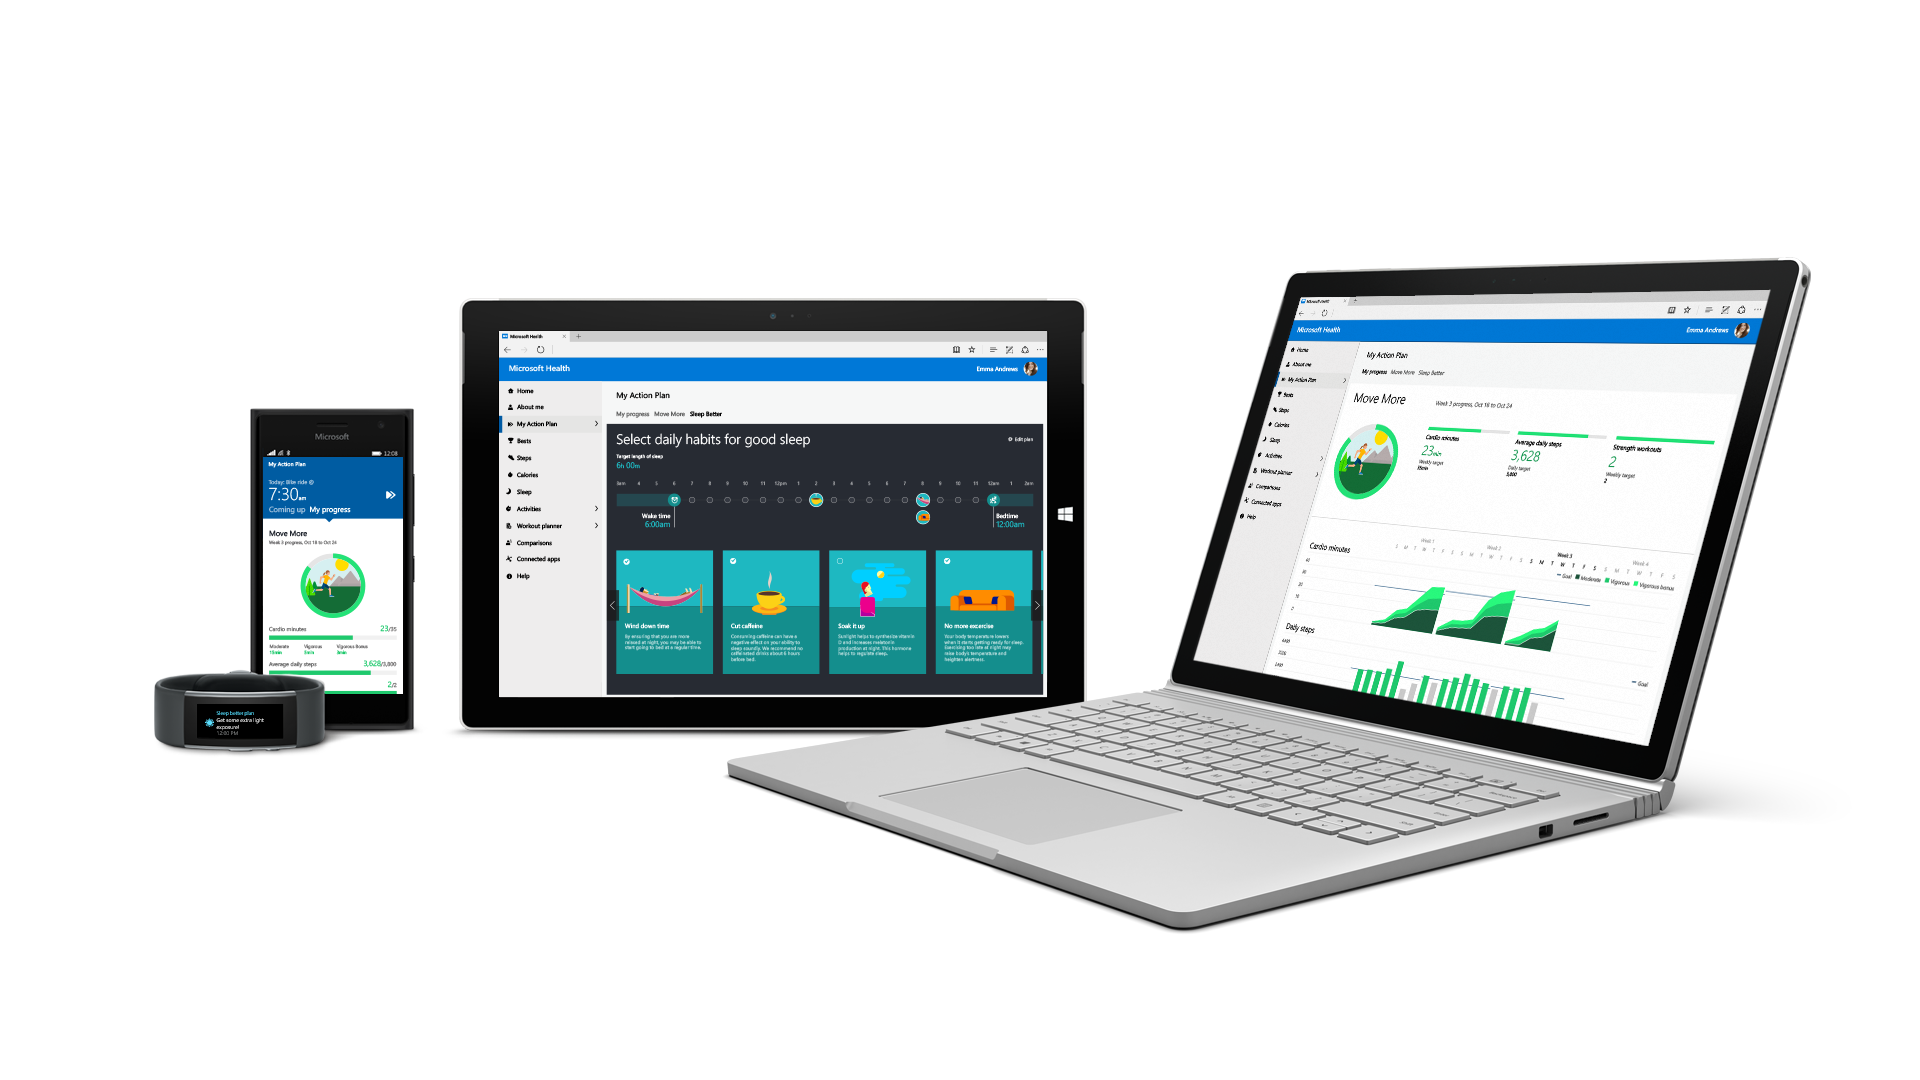
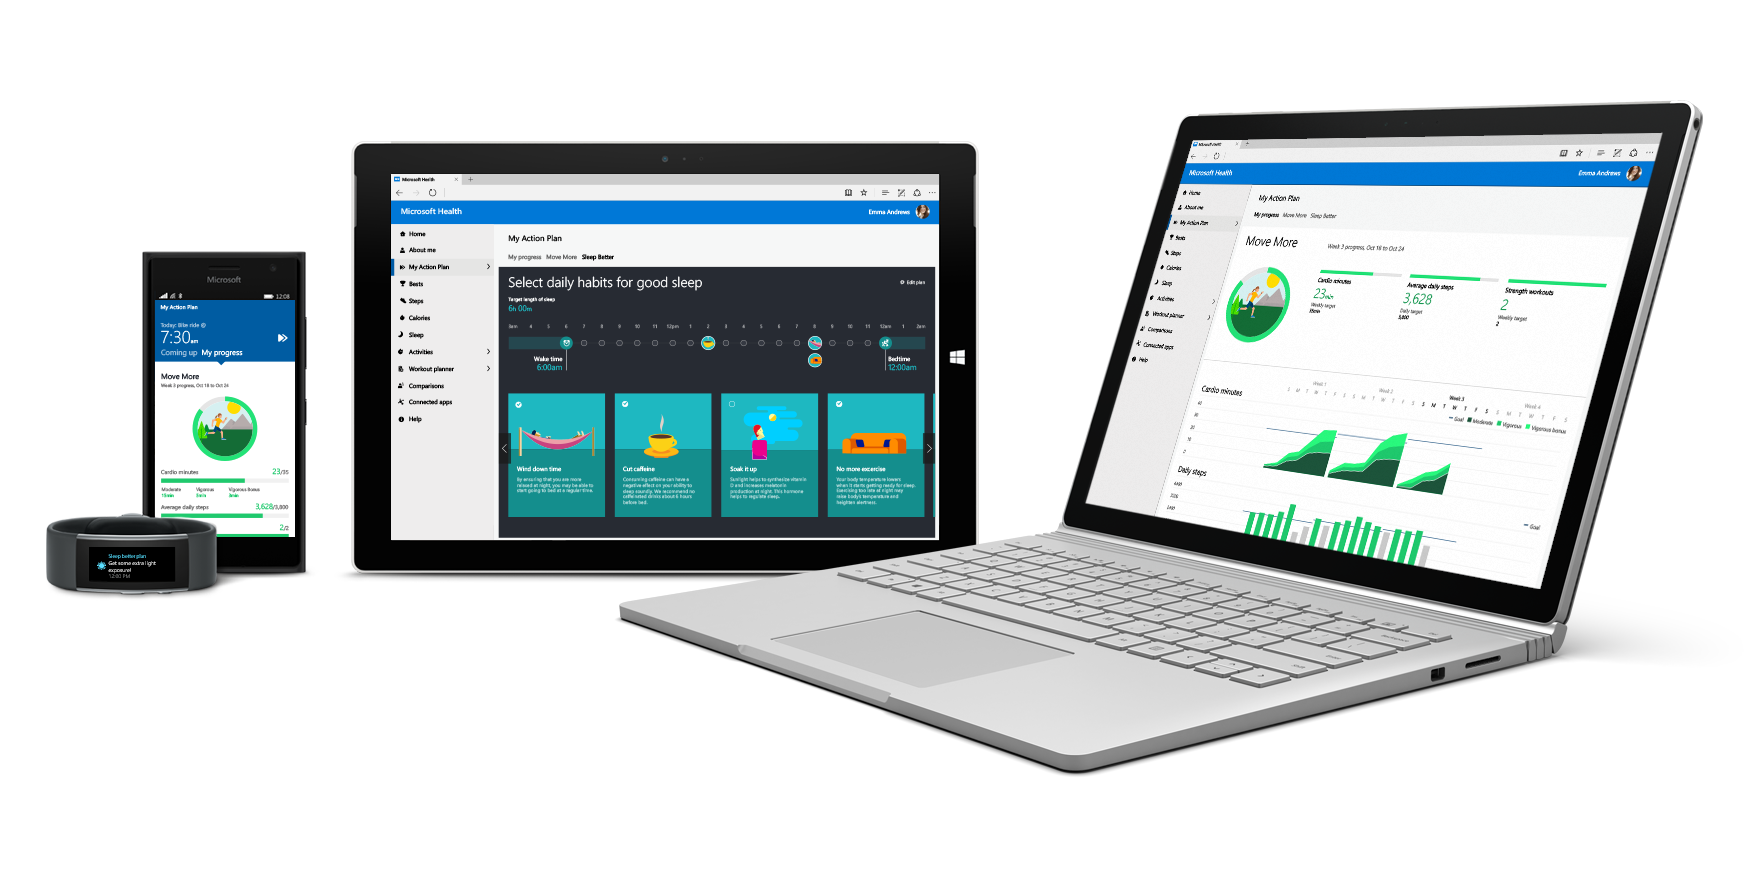
Updated MS Health
- Moved and cropped images
- Edited text
- Added border to MDXvideo component

diff --git a/src/app/projects/[slug]/page.tsx b/src/app/projects/[slug]/page.tsx
@@ -119,7 +119,7 @@ export default async function ProjectPage({ params }: ProjectPageProps) {
         </>
       )
     },
-    MDXVideo: ({ src, width = "full", caption, autoplay = false, loop = false, muted = true, controls = true }: any) => {
+    MDXVideo: ({ src, width = "full", caption, autoplay = false, loop = false, muted = true, controls = true, className = "" }: any) => {
       let widthClass = "w-full"
       if (width === "1/2") widthClass = "w-1/2"
       if (width === "1/3") widthClass = "w-1/3"
@@ -130,7 +130,7 @@ export default async function ProjectPage({ params }: ProjectPageProps) {
       return (
         <>
           <video 
-            className={`${widthClass} h-auto rounded-lg mb-4 mx-auto block`}
+            className={`${widthClass} h-auto rounded-lg mb-4 mx-auto block ${className}`}
             autoPlay={autoplay}
             loop={loop}
             muted={muted}
